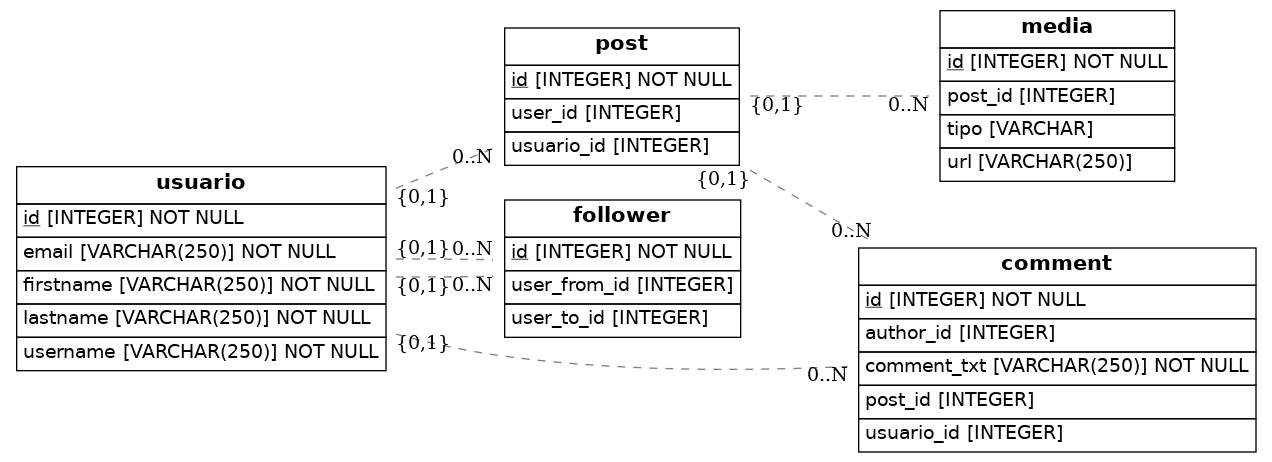
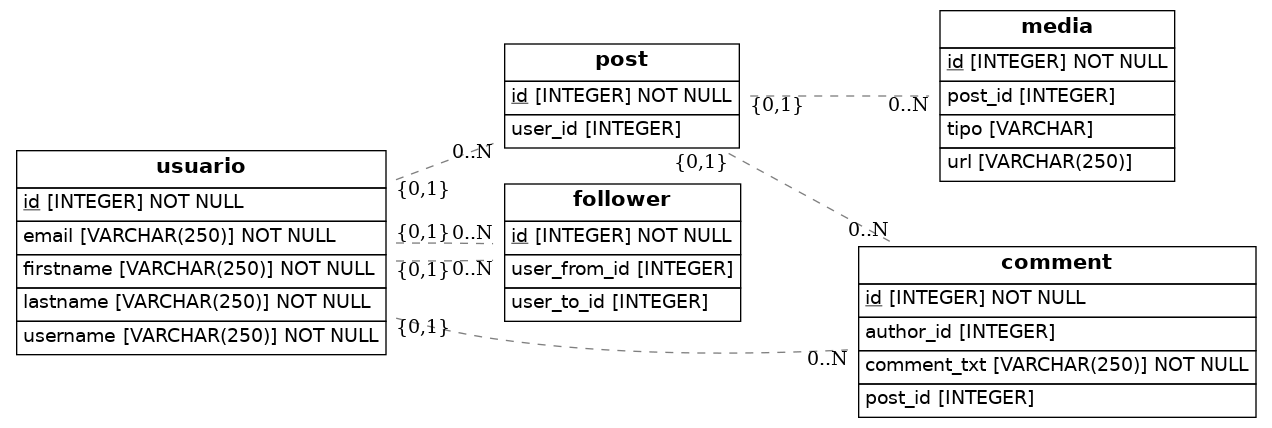
miinstagrame3

diff --git a/src/models.py b/src/models.py
@@ -27,9 +27,9 @@ class Post(Base):
     # Here we define columns for the table address.
     # Notice that each column is also a normal Python instance attribute.
     id = Column(Integer, primary_key=True)
-    user_id = Column(Integer)
-    usuario_id = Column(Integer, ForeignKey('usuario.id'))
-    usuario = relationship(Usuario)
+    user_id = Column(Integer, ForeignKey('usuario.id'))
+    # usuario_id = Column(Integer, ForeignKey('usuario.id'))
+    # usuario = relationship(Usuario)
     
 
 class Follower(Base):
@@ -49,12 +49,10 @@ class Comment(Base):
     # Notice that each column is also a normal Python instance attribute.
     id = Column(Integer, primary_key=True)
     comment_txt = Column(String(250), nullable=False)
-    author_id = Column(Integer)
-    post_id = Column(Integer)
+    author_id = Column(Integer, ForeignKey('usuario.id'))
     post_id = Column(Integer, ForeignKey('post.id'))
-    post = relationship(Post)
-    usuario_id = Column(Integer, ForeignKey('usuario.id'))
-    usuario = relationship(Usuario)
+    # usuario_id = Column(Integer, ForeignKey('usuario.id'))
+    # usuario = relationship(Usuario)
 
 
 
@@ -65,9 +63,9 @@ class Media(Base):
     id = Column(Integer, primary_key=True)
     tipo = Column(Enum)
     url = Column(String(250))
-    post_id = Column(Integer)
     post_id = Column(Integer, ForeignKey('post.id'))
-    post = relationship(Post)
+    # post_id = Column(Integer, ForeignKey('post.id'))
+    # post = relationship(Post)
 
 
 
